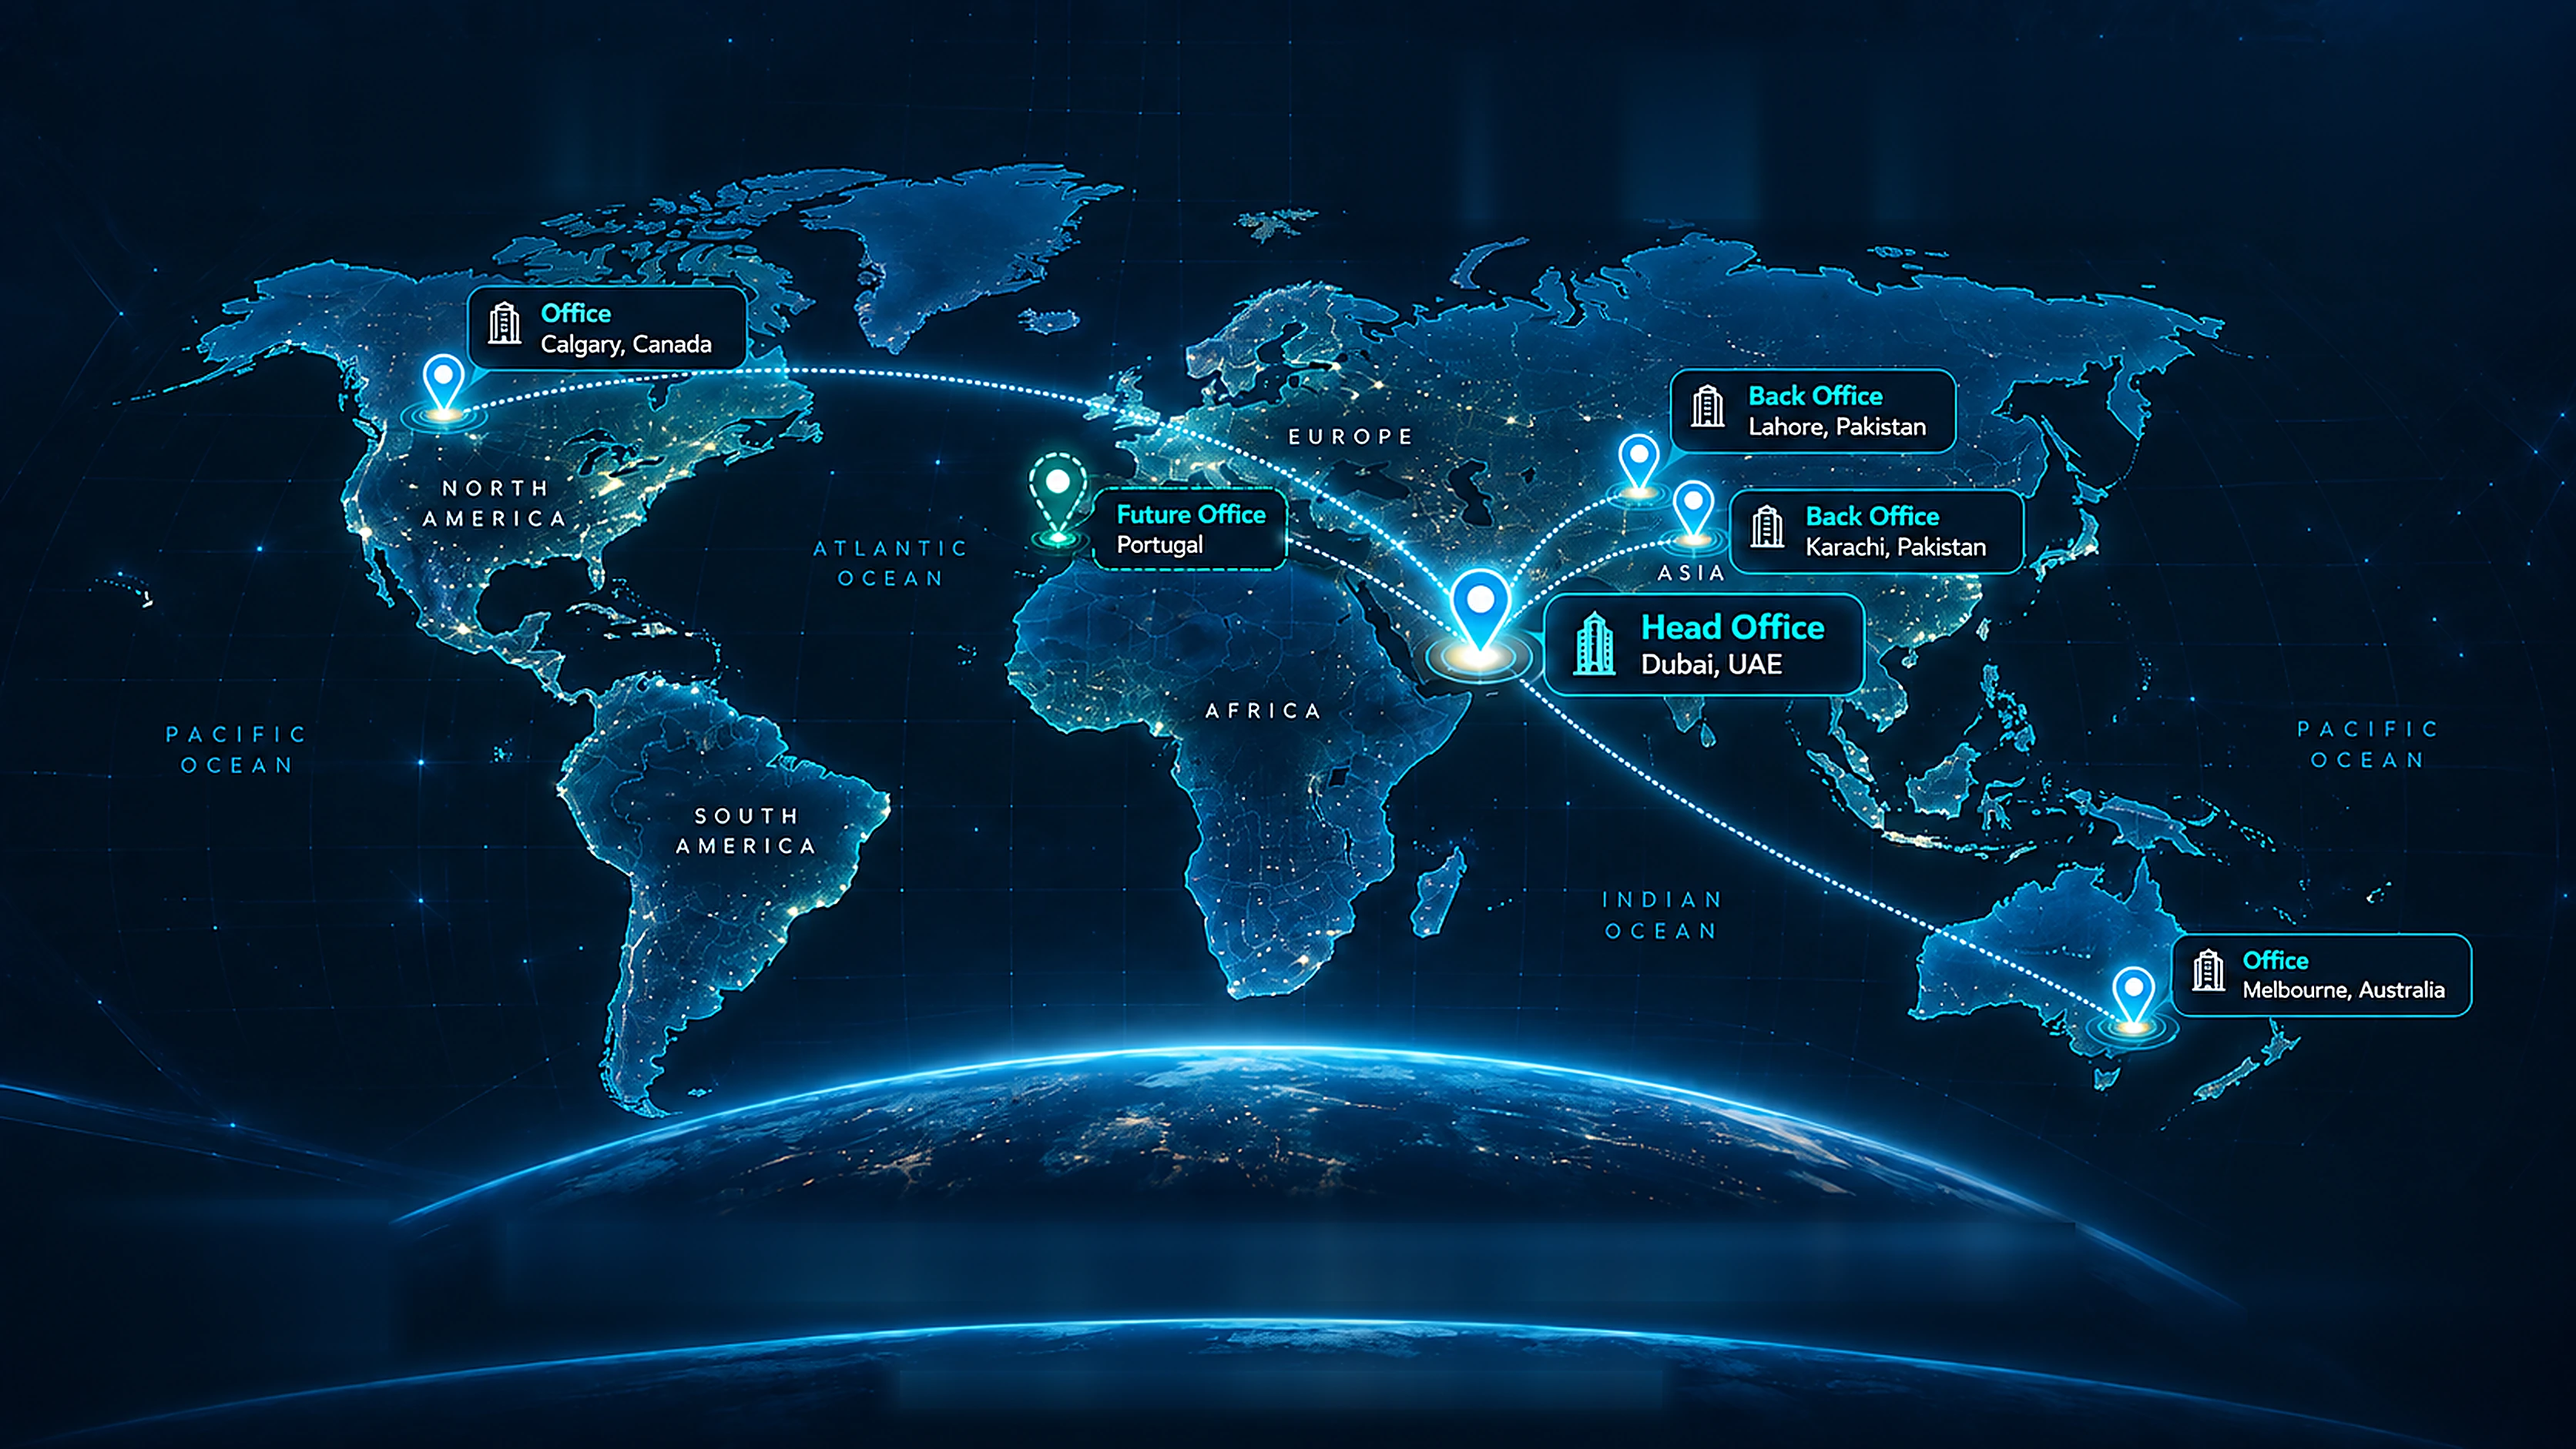
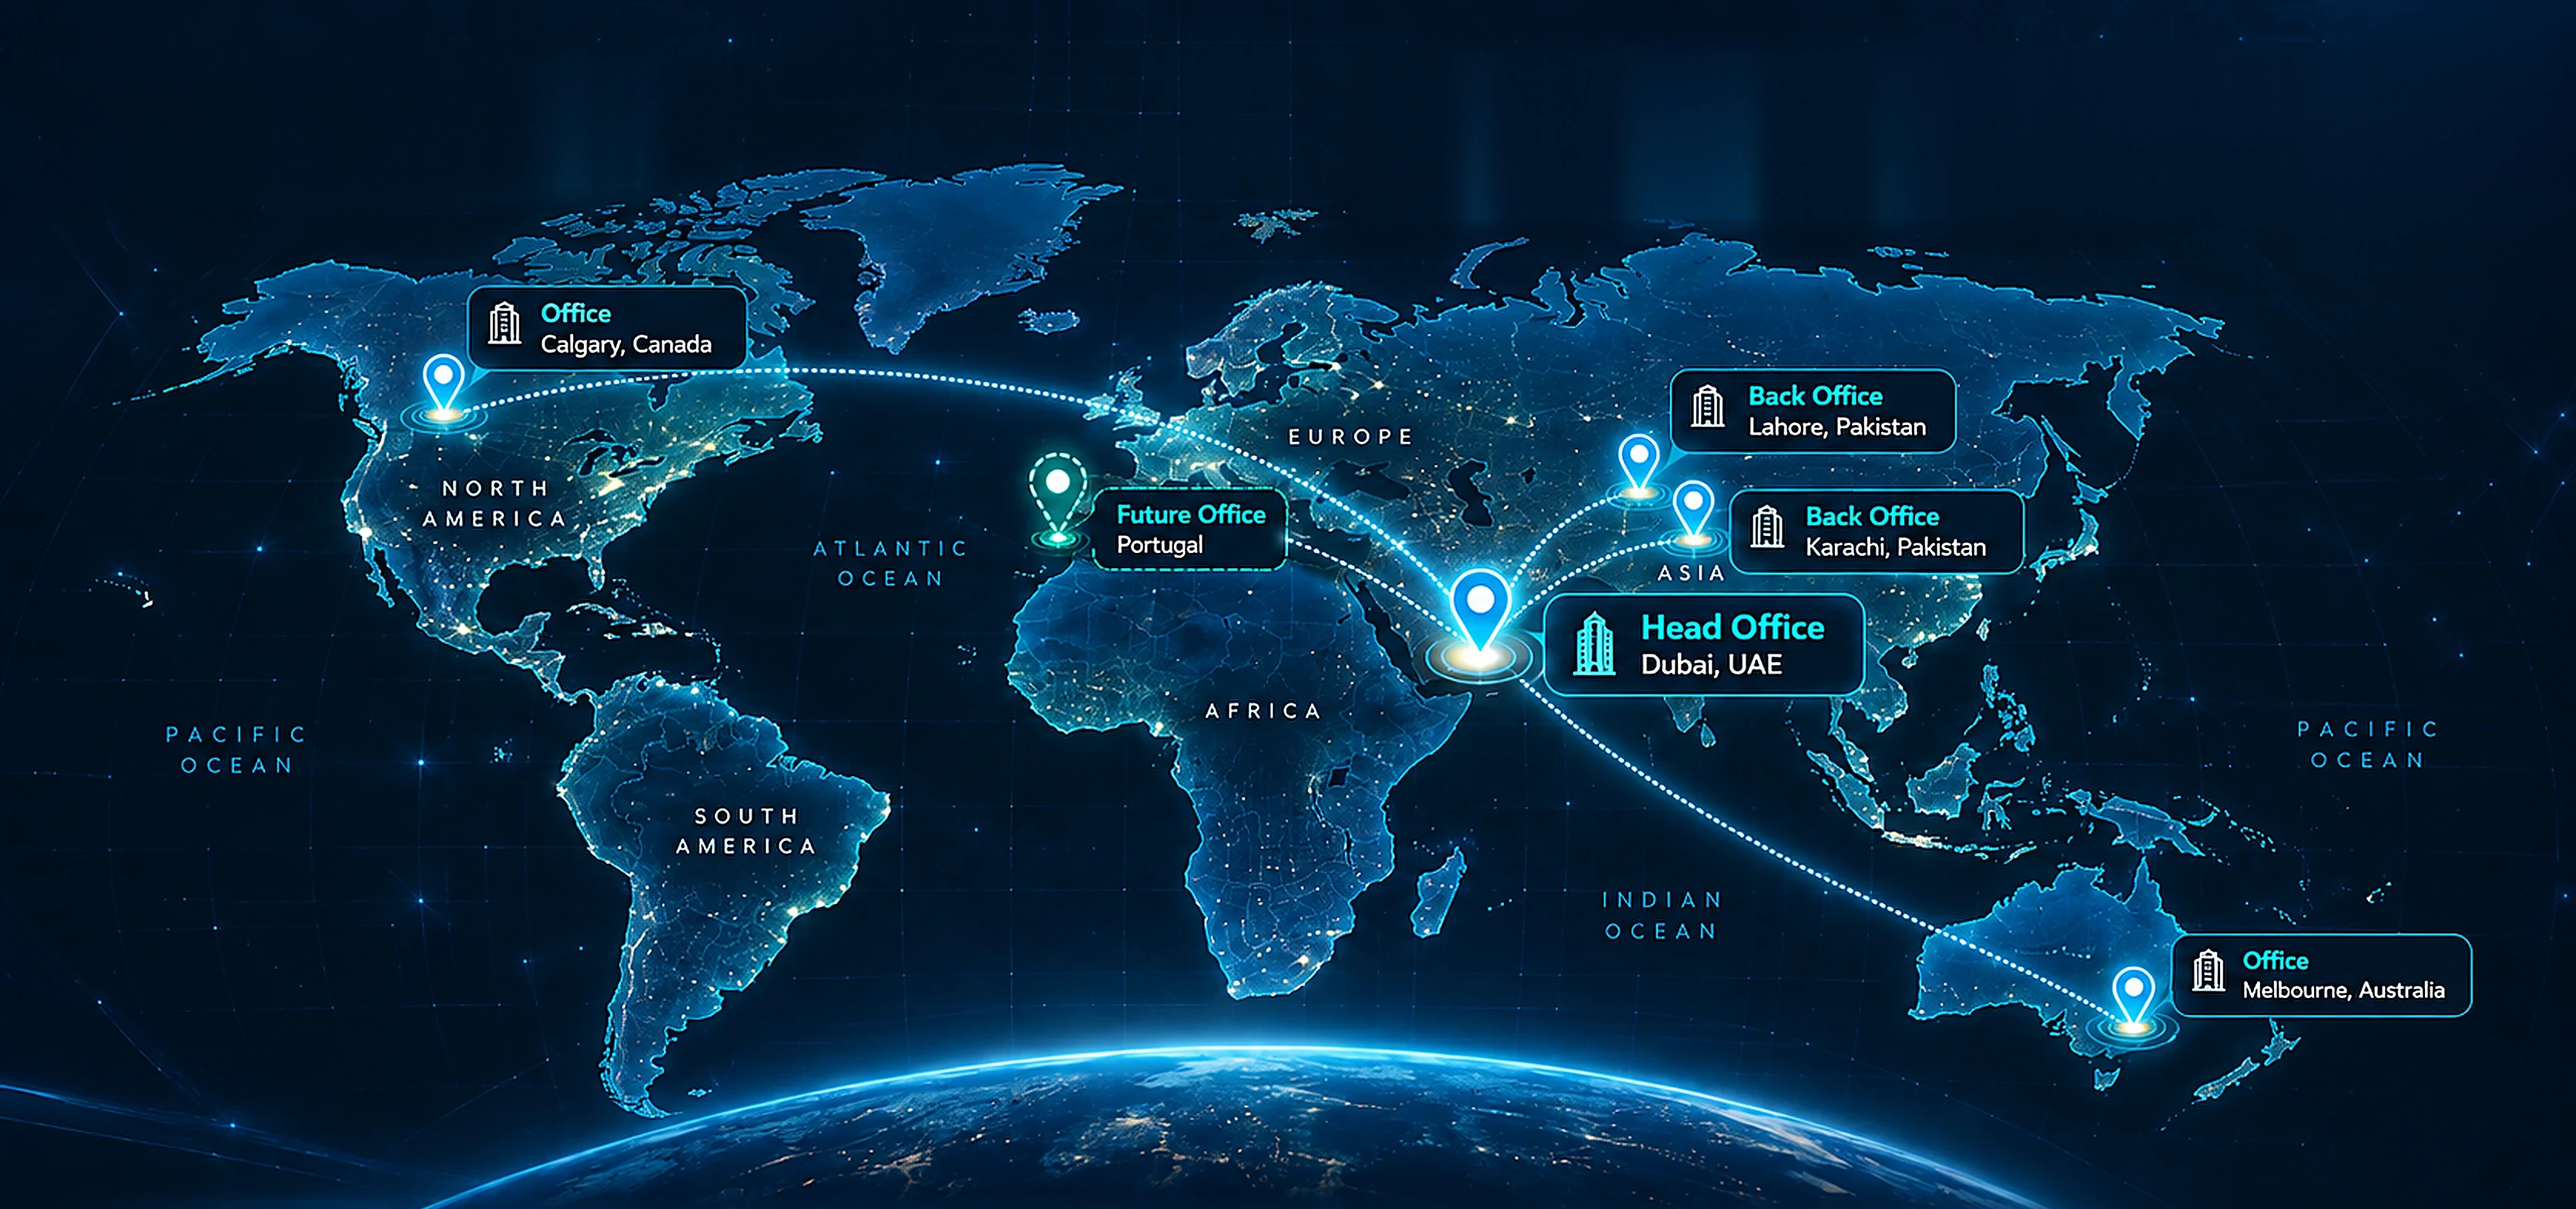
About map: crop the duplicated lower earth curve

diff --git a/src/components/GlobalPresence.jsx b/src/components/GlobalPresence.jsx
@@ -2,12 +2,12 @@
 // 16:9). It already carries the Tribox logo and the office labels; glowing rings pulse on top of
 // each location. `x` and `y` are percentages of the image; `big` marks the head office.
 const spots = [
-  { name: 'Calgary', x: 17.2, y: 28.4, delay: 0.4 },
-  { name: 'Portugal', x: 41.0, y: 37.4, delay: 1.2, future: true },
-  { name: 'Lahore', x: 63.6, y: 34.2, delay: 0.8 },
-  { name: 'Karachi', x: 65.7, y: 37.4, delay: 1.6 },
-  { name: 'Dubai', x: 57.4, y: 45.6, delay: 0, big: true },
-  { name: 'Melbourne', x: 82.7, y: 71.0, delay: 2 },
+  { name: 'Calgary', x: 17.2, y: 34.0, delay: 0.4 },
+  { name: 'Portugal', x: 41.0, y: 44.8, delay: 1.4, future: true },
+  { name: 'Lahore', x: 63.6, y: 41.0, delay: 0.8 },
+  { name: 'Karachi', x: 65.7, y: 44.8, delay: 1.6 },
+  { name: 'Dubai', x: 57.4, y: 54.7, delay: 0.0, big: true },
+  { name: 'Melbourne', x: 82.7, y: 85.1, delay: 2 },
 ]
 
 export default function GlobalPresence({ className = '' }) {
@@ -16,7 +16,7 @@ export default function GlobalPresence({ className = '' }) {
       <img
         src="/about/global-presence.webp"
         width="3344"
-        height="1882"
+        height="1570"
         alt="Tribox global presence: head office in Dubai, UAE, with offices in Lahore and Karachi, Calgary, Melbourne and a future office in Portugal"
       />
       {spots.map((s) => (

diff --git a/src/index.css b/src/index.css
@@ -1997,7 +1997,7 @@ a.info-card:hover { transform: translateX(8px); border-color: rgb(var(--accent-r
 .about-hero .page-title { font-size: clamp(2.4rem, 4.4vw, 3.9rem); }
 .about-hero .page-lead { max-width: 780px; margin-inline: auto; }
 .global-presence { position: relative; margin: 0; border-radius: 28px; overflow: hidden; border: 1px solid var(--line); box-shadow: 0 40px 80px -40px var(--shadow-color); }
-.global-presence { aspect-ratio: 16 / 9; background: #050b1d; }
+.global-presence { aspect-ratio: 3344 / 1570; background: #050b1d; }
 .global-presence > img { display: block; width: 100%; height: 100%; object-fit: cover; }
 /* Glowing, pulsing rings on the offices of the Global Presence map */
 .global-presence { container-type: inline-size; }
